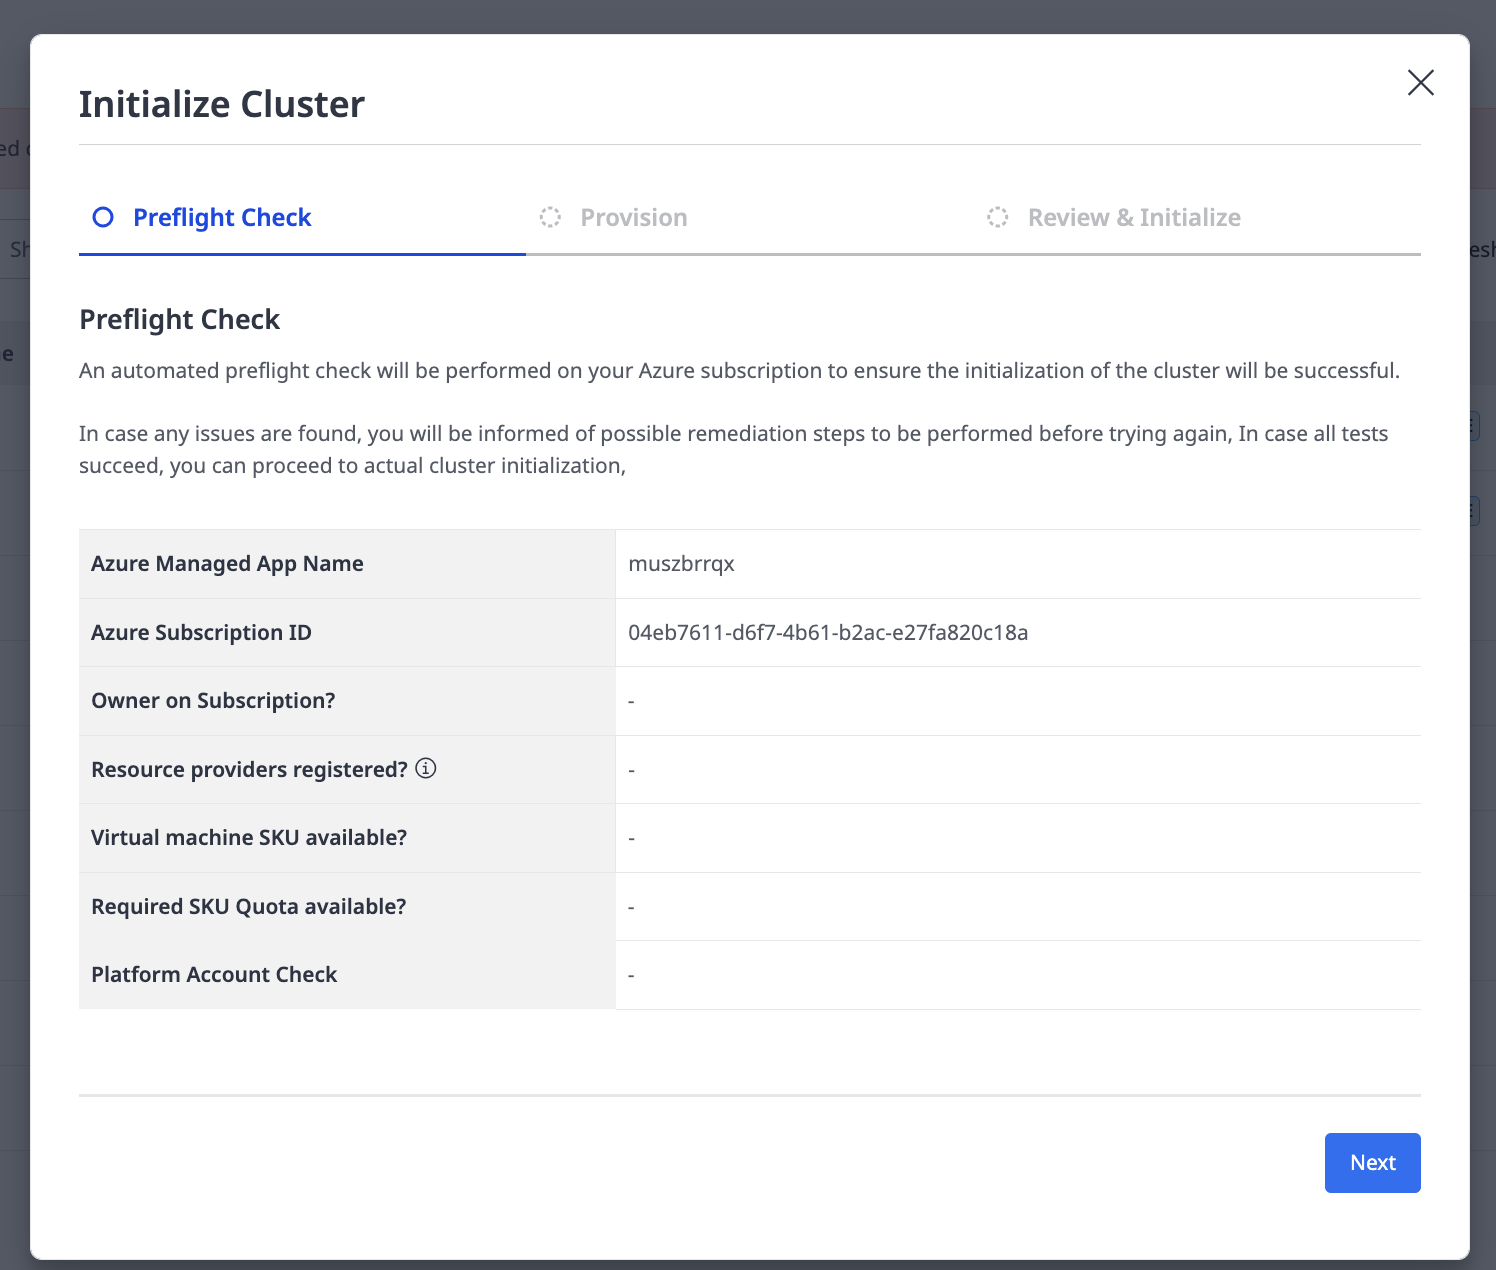
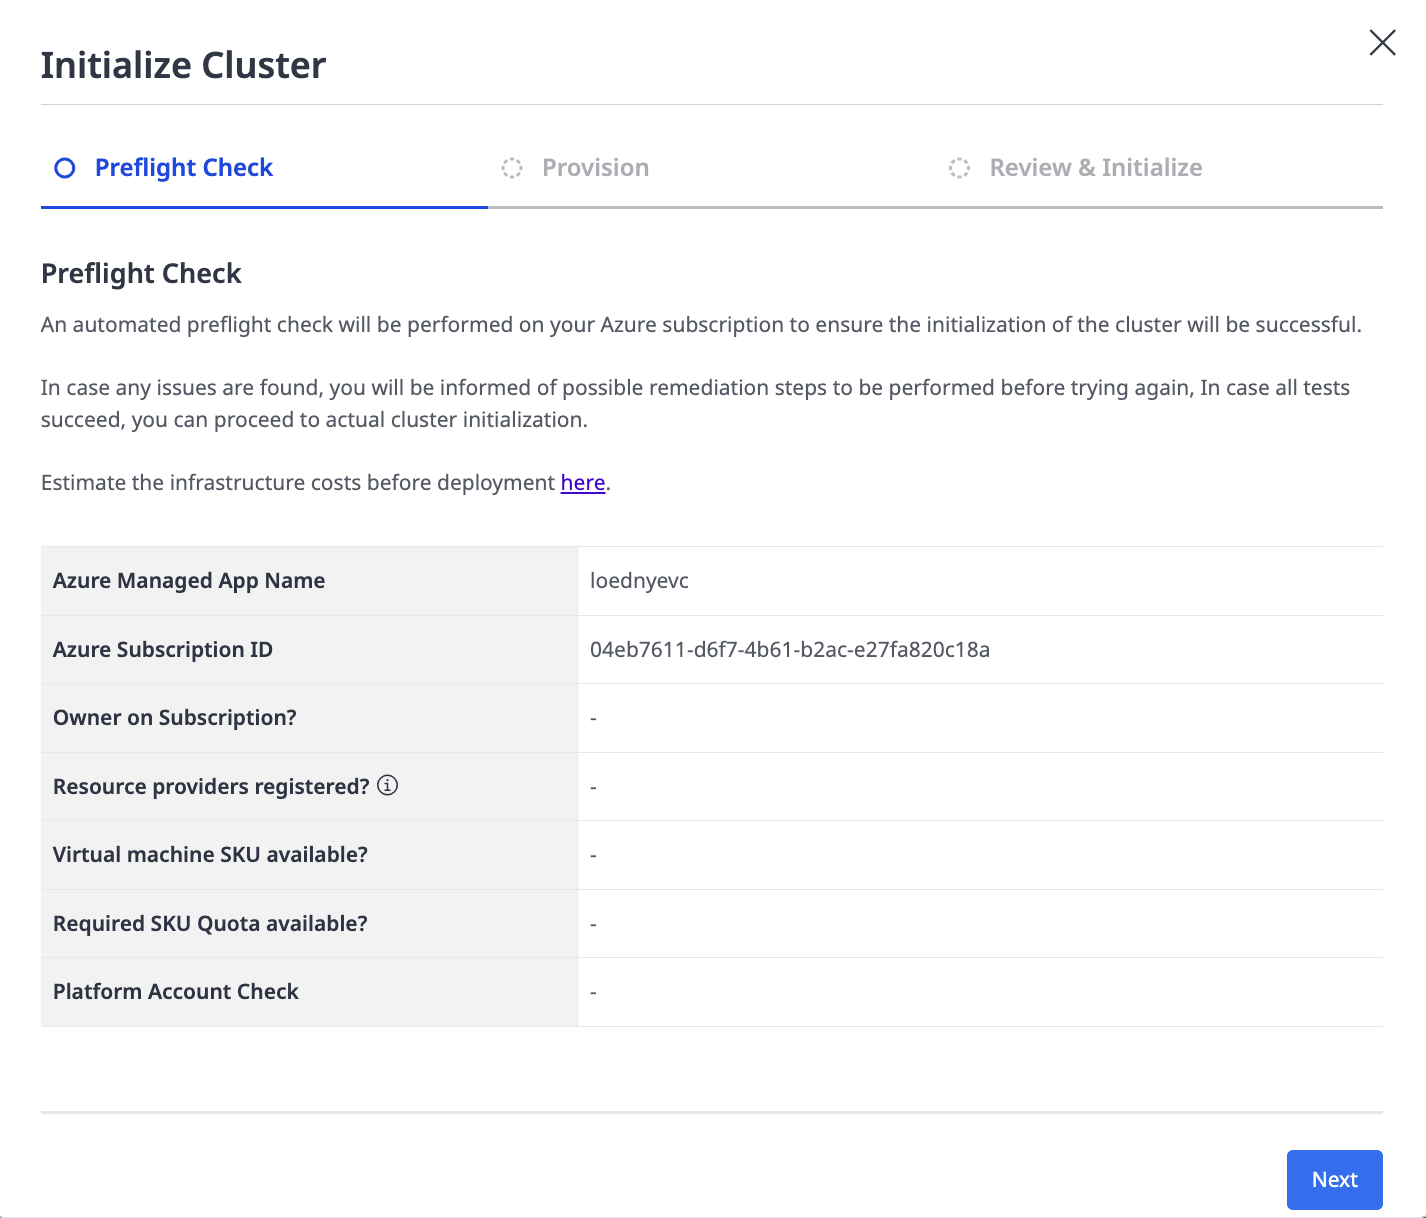
Merge pull request #11146 from mxashokkhedkar/mxazure_release_1_16
Added release notes for MxOnAzure v1.16

Pull request: Added release notes for MxOnAzure v1.16
release notes for MxOnAzure v1.16

Changed region(s): [[0.0, 0.0, 1.0, 1.0], [0.4011, 0.4368, 0.6788, 0.5616]]

diff --git a/content/en/docs/deployment/mx-azure/mx-azure-cluster-visibility.md b/content/en/docs/deployment/mx-azure/mx-azure-cluster-visibility.md
@@ -1,0 +1,63 @@
+---
+title: "Cluster Visibility and Permissions"
+url: /developerportal/deploy/mendix-on-azure/cluster-visibility/
+description: "Describes how cluster visibility and editing permissions work in Mendix for Private Cloud on Azure based on user roles and Azure RBAC permissions."
+weight: 8
+---
+
+## Introduction
+
+The **Cluster Overview** page in Mendix on Azure displays clusters based on your assigned role and Azure permissions. This document explains how cluster visibility and editing permissions work.
+
+## Overview
+
+Below is a short summary of the key aspects of cluster visibility. For more information, refer to the following sections.
+
+* Visibility - All cluster namespace members can view initialized clusters to facilitate support and monitoring.
+* Security - Only Cluster Managers with appropriate Azure RBAC roles (Owner or Contributor) can modify cluster settings.
+* Separation of Concerns: 
+  * Initialized clusters are visible to all namespace members regardless of Azure RBAC.
+  * Editing capabilities require both Cluster Manager role or Azure Owner or Contributor permissions.
+
+## Cluster Visibility
+
+### All Users
+
+All users who are members of a Mendix cluster namespace can see initialized clusters in the cluster overview page, regardless of their Azure RBAC permissions. This allows all users to view cluster details and submit support tickets.
+
+Clusters that are ready to initialize (that is, not yet initialized) follow the standard Azure RBAC visibility rules.
+
+### Cluster Manager Role
+
+Users with the Cluster Manager role have the same visibility as other users for initialized clusters, as well as the following:
+
+* Access to view and potentially edit cluster configuration (depending on Azure RBAC permissions)
+* Ability to see clusters awaiting initialization (based on Azure RBAC permissions)
+
+## Editing Cluster Settings
+
+### Permission Requirements
+
+To edit cluster settings, a user must have the following roles:
+
+* In Mendix - Cluster Manager
+* In Azure RBAC - Azure Owner or Azure Contributor
+
+### Permission Scenarios
+
+| User Type | Azure RBAC | Can View Initialized Clusters | Can Edit Clusters |
+| --- | --- | --- | --- |
+| Any cluster namespace member | Any | Yes | No |
+| Cluster Manager | Reader | Yes | No |
+| Cluster Manager | Owner/Contributor | Yes | Yes |
+
+### Error Handling
+
+If a Cluster Manager attempts to edit cluster settings without the required Azure Owner or Contributor role, an error message like the following is displayed, explaining that additional Azure permissions are required:
+
+*The user must be cluster manager to edit the Azure environment.You are not cluster manager of this Azure environment.*
+
+## Read More
+
+* [Configuring Mendix on Azure](/developerportal/deploy/mendix-on-azure/configuration/) – Configuration options available through the Mendix on Azure Portal
+* [Support for Mendix on Azure](/developerportal/deploy/mendix-on-azure/support/) – Support model and shared responsibility

diff --git a/content/en/docs/releasenotes/deployment/mendix-azure.md b/content/en/docs/releasenotes/deployment/mendix-azure.md
@@ -10,6 +10,16 @@ These release notes cover changes to deployment to [Mendix on Azure](/developerp
 
 For information on the current status of Mendix deployment, see [Mendix Status](https://status.mendix.com/).
 
+## Release date: May 7, 2026
+
+* We have fixed an issue where an unavailable VM could be selected.
+* We have added a cost calculator link to the Cluster Deployment and Edit flows.
+* PostgreSQL replicas can no longer be scaled when Read Replica is enabled.
+* We have extended the quota check to warn users when the available quota for the selected VM type, including family and regional, is less than 8.
+* Initialized clusters are now visible to cluster members regardless of Azure RBAC.
+* Only Cluster Managers with the Azure Owner or Contributor roles can now edit cluster settings.
+* We have added a warning to inform users about the implications of enabling network-isolated cluster and internal load balancers.
+
 ## Release date: February 26, 2026
 
 * We have improved the handling of PostgreSQL HA unavailability issues in certain Azure regions to prevent failed Spacelift Stack runs when infrastructure redundancy is enabled.

diff --git a/content/en/docs/releasenotes/deployment/mendix-for-private-cloud.md b/content/en/docs/releasenotes/deployment/mendix-for-private-cloud.md
@@ -12,6 +12,12 @@ For information on the current status of deployment to Mendix on Kubernetes and 
 
 ## 2026
 
+### May 7, 2026
+
+#### Portal Improvements
+
+* We have fixed an issue where an error pop-up would appear when opening Grafana for Logs and Metrics. (Ticket 277132)
+
 ### May 1, 2026
 
 #### Mendix Ops CLI

diff --git a/content/en/docs/deployment/mx-azure/mx-azure-deploy.md b/content/en/docs/deployment/mx-azure/mx-azure-deploy.md
@@ -79,6 +79,10 @@ To deploy the solution, perform the following steps:
 
 7. Identify the entry belonging to the Managed Application you deployed in previous steps. In the **Actions** column, click the dropdown menu icon, and then select **Initialize**. 
 
+    {{% alert color="info" %}}
+    For information about how cluster visibility and editing permissions work based on user roles and Azure RBAC, see [Cluster Visibility and Permissions](/developerportal/deploy/mendix-on-azure/cluster-visibility/).
+    {{% /alert %}}
+
     The preflight check launches to verify the conditions are in place to successfully initialize a Mendix on Azure cluster. 
 
     {{< figure src="/attachments/deployment/mx-azure/preflight-check.png" class="no-border" >}}

diff --git a/content/en/docs/deployment/mx-azure/configuration/_index.md b/content/en/docs/deployment/mx-azure/configuration/_index.md
@@ -116,6 +116,8 @@ Additional cluster managers have the same configuration privileges as the origin
 Before adding a cluster manager, ensure the invited user signs in to the Mendix on Azure portal prior to accepting the invitation. Otherwise, the invitation might show as accepted, but the user will not have access to any Mendix on Azure resources. 
 {{% /alert %}}
 
+For detailed information about cluster visibility and permission requirements for viewing and editing clusters, see [Cluster Visibility and Permissions](/developerportal/deploy/mendix-on-azure/cluster-visibility/).
+
 ## Configuration Assistance Available by Submitting a Support Ticket through the Mendix on Azure Portal
 
 Certain configuration changes require Mendix intervention and can only be performed by submitting a support ticket through the Mendix on Azure portal: